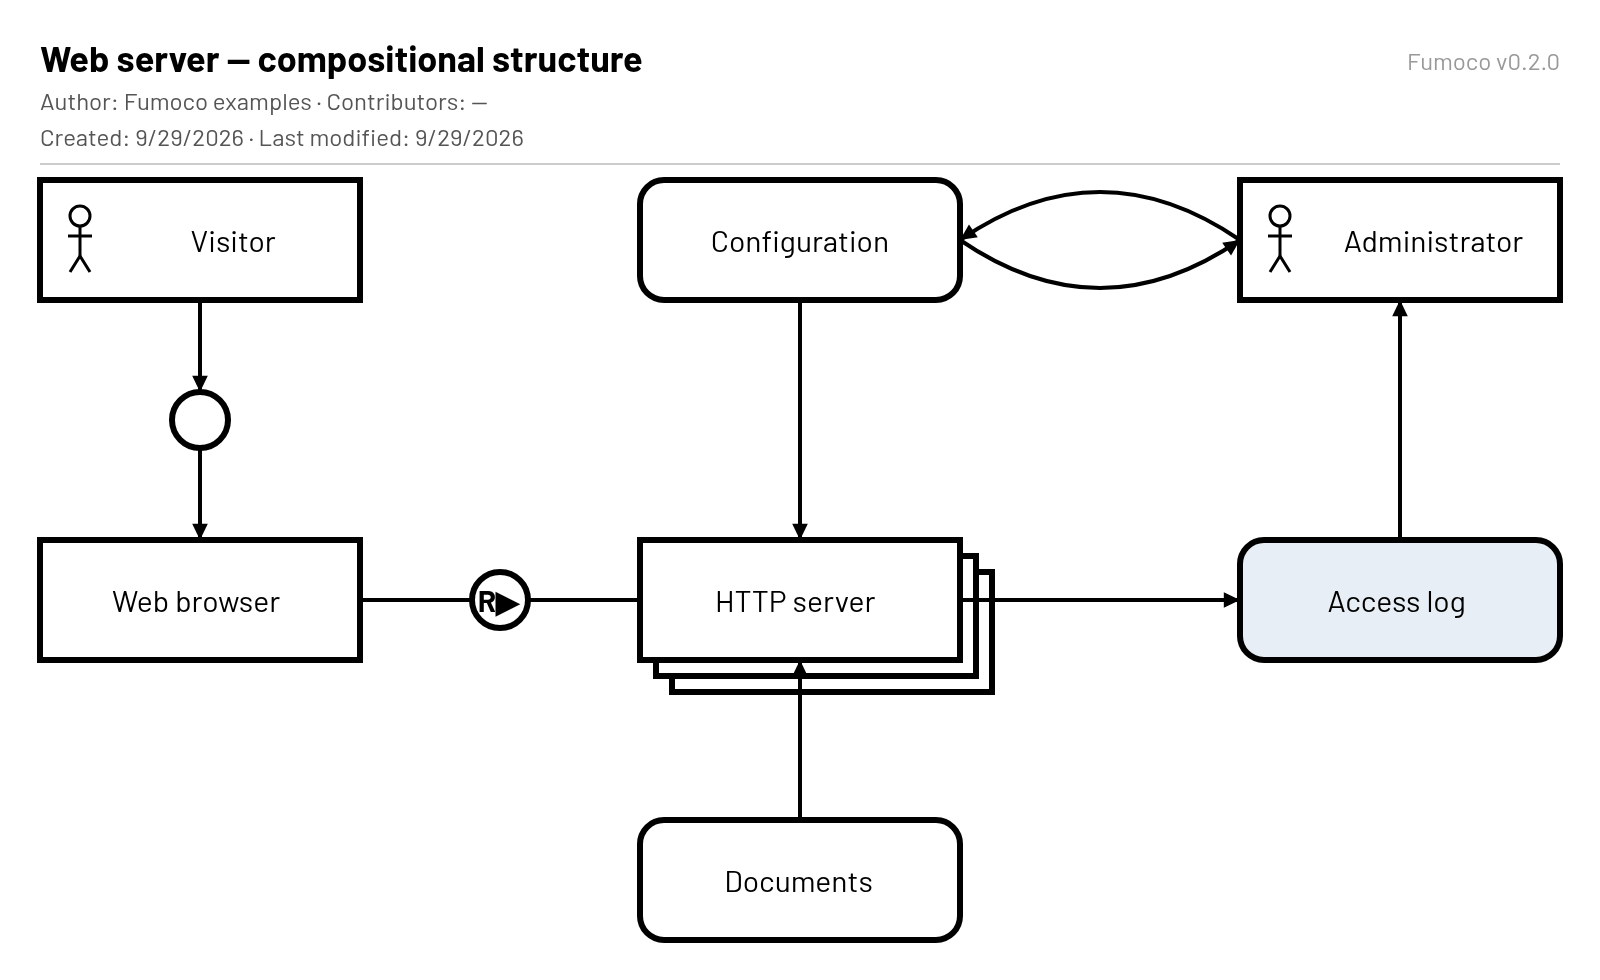
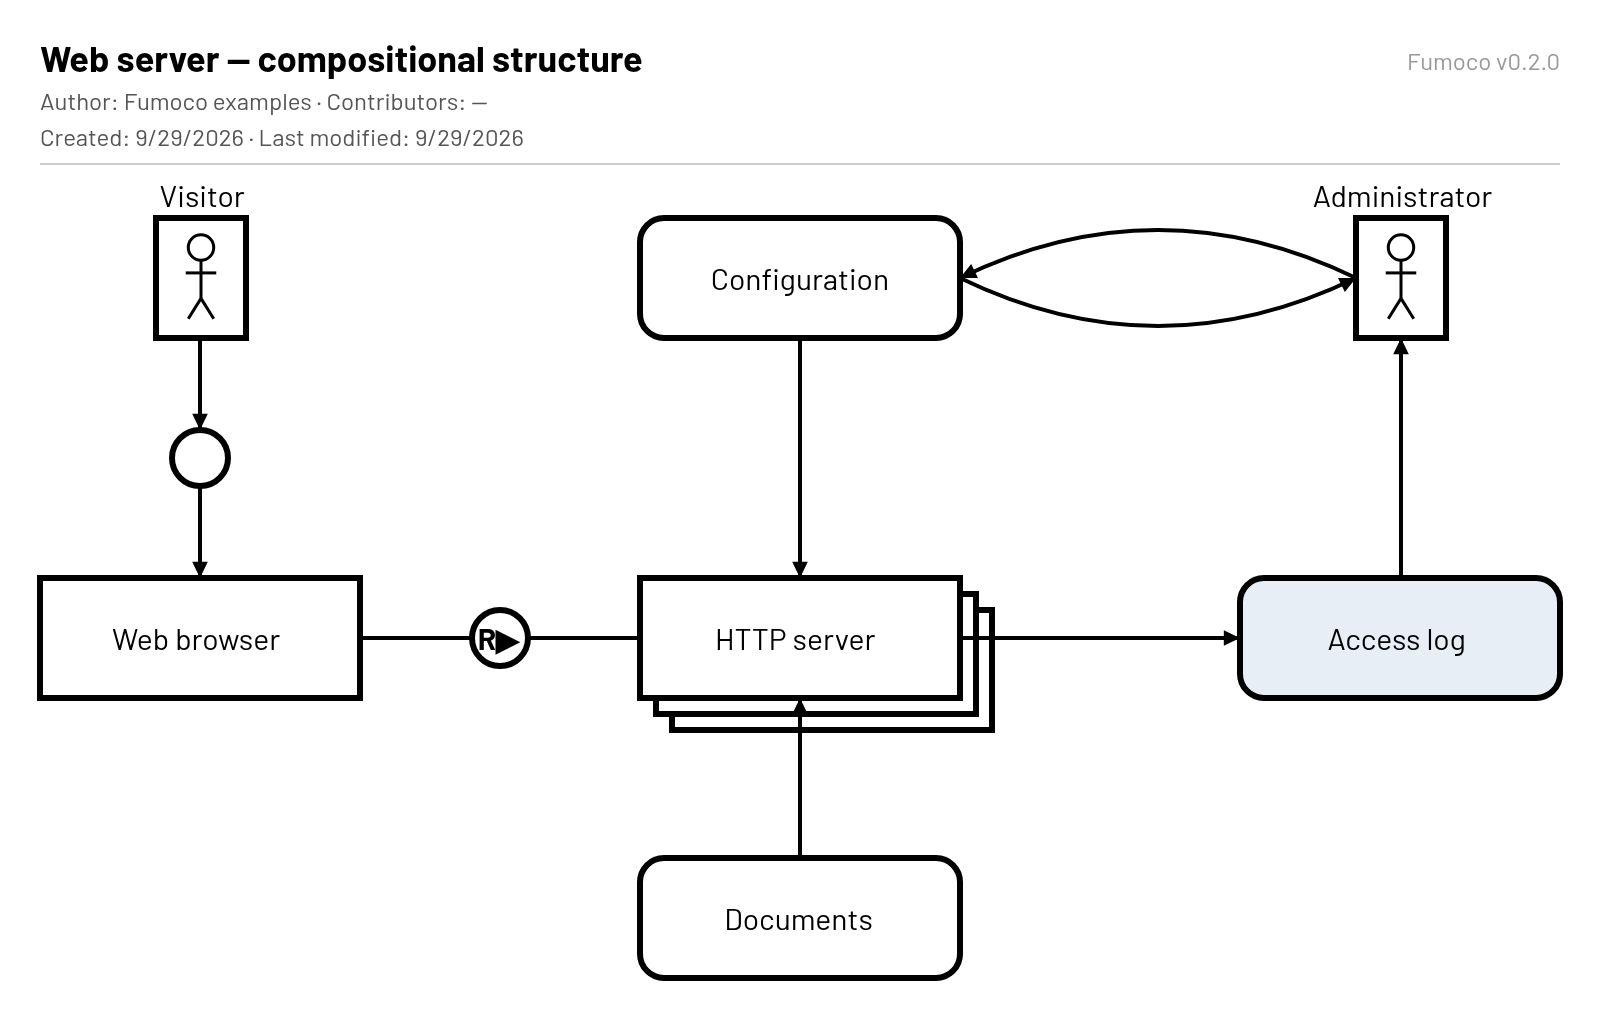
feat: human agents drawn as in FMC -- portrait box, centered figure, name above
Also fixes loading a model at startup, which broke with the access-edge
merge: fromJSON runs during the first render, where reading and then
writing the tracked accesses array is an error. Merging now happens in a
plain array first.

diff --git a/fumoco/app/utils/fmc-model.js b/fumoco/app/utils/fmc-model.js
@@ -760,24 +760,26 @@ export class FmcModel {
         }),
       );
     }
+    // Merged in a plain array first: fromJSON can run lazily *during* a
+    // render (model-store's initializer), where reading a tracked array
+    // and then writing to it is an error.
+    const accesses = [];
     for (const access of json.accesses ?? []) {
       // `id: makeId()` first, then spread `access` over it, so an already-
       // current export's own id wins and only a legacy/missing one gets a
       // fresh one assigned here. A second edge for the same agent/location
       // pair (files saved before edges were merged) folds into the first.
-      const index = model.accesses.findIndex(
+      const existing = accesses.find(
         (a) => a.agent === access.agent && a.location === access.location,
       );
-      if (index === -1) {
-        model.accesses.push({ id: makeId(), ...access });
+      if (existing) {
+        existing.kind = mergeAccessKinds(existing.kind, access.kind);
       } else {
-        const existing = model.accesses[index];
-        model.accesses.splice(index, 1, {
-          ...existing,
-          kind: mergeAccessKinds(existing.kind, access.kind),
-        });
+        accesses.push({ id: makeId(), ...access });
       }
     }
+    model.accesses.push(...accesses);
+    const accessIds = new Set(accesses.map((a) => a.id));
     for (const arc of json.arcs ?? []) {
       model.arcs.push({ id: makeId(), ...arc });
     }
@@ -795,7 +797,6 @@ export class FmcModel {
         view.nestedUnder ?? {},
       ))
         v.nestedUnder.set(elementId, parentId);
-      const accessIds = new Set(model.accesses.map((a) => a.id));
       for (const [edgeId, points] of Object.entries(view.edgeWaypoints ?? {})) {
         if (!accessIds.has(edgeId)) continue; // merged away on load
         v.edgeWaypoints.set(

diff --git a/fumoco/app/utils/box-layout.js b/fumoco/app/utils/box-layout.js
@@ -8,6 +8,9 @@ const DEFAULT_SIZES = {
   [ElementType.PLACE]: { width: 33, height: 33 },
   // ~1em high, 3em wide: an unnamed relation just carries its arrow.
   [ElementType.RELATION]: { width: 45, height: 15 },
+  // Portrait, ~3em x 4em, holding just the stick figure (FMC stencil);
+  // the name is drawn outside, above it.
+  [ElementType.HUMAN_AGENT]: { width: 45, height: 60 },
   // A triangle glyph, not a label-sized box.
   [ElementType.PARTITION]: { width: 60, height: 50 },
 };

diff --git a/PFLICHTENHEFT.md b/PFLICHTENHEFT.md
@@ -901,6 +901,17 @@ note when the content outgrows it. On the guide layer; never exported.
   body stacked 8px apart down-right behind it. The body rect is named
   `.fumoco-body` so selection styling finds it rather than a copy.
 
+## Human agents (`buildShape`, `buildStickFigure`)
+
+As in the FMC stencils: a portrait box (default 45x60, ~3em x 4em) with
+the stick figure centered and scaled to ~70% of it, and the name outside,
+centered above the box. The name is a separate layer node
+(`outsideLabels`), not a child of the element's group, so the
+Transformer's handles and resize scaling cover only the box; it follows
+the box on drag/transform (and with a dragged container's descendants),
+and `contentBounds` includes it so exports and scrollbars don't cut it
+off.
+
 ## Clipboard and keyboard (`canvas-view.gjs`)
 
 Cmd (Mac) or Ctrl + A/X/C/V -- either modifier is accepted everywhere,

diff --git a/LASTENHEFT.md b/LASTENHEFT.md
@@ -90,6 +90,9 @@ implementation notes here — that's the other two documents' job.
 
 ## Selecting and arranging multiple elements
 
+- As a modeler, I want a human agent drawn as in FMC: a box holding just
+  the stick figure, with its name outside the box, centered above it.
+
 - As a modeler, I want to multi-select boxes via shift-click, cmd/ctrl-
   click, and by dragging a selection rectangle over them.
 - As a modeler, I want to select everything in a drawing with Cmd-A on a
